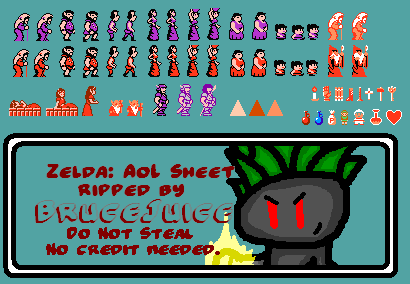
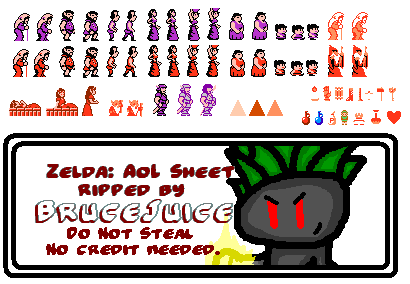
add ending scene 1

diff --git a/script/northpalace.py b/script/northpalace.py
@@ -1,5 +1,7 @@
 import game_objects as g
 from game.game_elevator import GameElevator
+from scene.scene_manager import SceneManager
+from sprite.sprite_base import SpriteBase
 
 
 def map_01():
@@ -10,4 +12,49 @@ def transfer_01():
     if g.GAME_PLAYER.right >= g.GAME_MAP.width():
         map_name = 'parapalace'
         g.GAME_MAP.transfer(map_name, 1, 1, g.GAME_PLAYER.y / 16 - 1)
-        GameElevator.position_y = 12;
+        GameElevator.position_y = 12
+
+
+triforce_count = 900
+sprite_triforce1 = SpriteBase()
+sprite_triforce2 = SpriteBase()
+sprite_triforce3 = SpriteBase()
+def map_02():
+    global triforce_count
+    global sprite_triforce1, sprite_triforce2, sprite_triforce3
+    if g.GAME_PLAYER.can_input:
+        g.GAME_PLAYER.can_input = False
+        g.GAME_PLAYER.state = "pick"
+        g.GAME_PLAYER.direction = -1
+        g.GAME_PLAYER.x += 1
+        create_triforce(sprite_triforce1)
+        create_triforce(sprite_triforce2)
+        create_triforce(sprite_triforce3)
+        SceneManager.scene('hide_screens')
+    else:
+        triforce_count -= 1
+        if triforce_count % 90 == 0:
+            sprite_triforce1.set_frame(230, 100, 16, 16)
+            sprite_triforce2.set_frame(230, 100, 16, 16)
+            sprite_triforce3.set_frame(230, 100, 16, 16)
+        if triforce_count % 90 == 30:
+            sprite_triforce1.set_frame(230 + 16 + 3, 100, 16, 16)
+            sprite_triforce2.set_frame(230 + 16 + 3, 100, 16, 16)
+            sprite_triforce3.set_frame(230 + 16 + 3, 100, 16, 16)
+        if triforce_count % 90 == 60:
+            sprite_triforce1.set_frame(230 + 32 + 5, 100, 16, 16)
+            sprite_triforce2.set_frame(230 + 32 + 5, 100, 16, 16)
+            sprite_triforce3.set_frame(230 + 32 + 5, 100, 16, 16)
+        if triforce_count % 5 == 0 and triforce_count > 570:
+            sprite_triforce1.x -= 1
+            sprite_triforce2.x += 1
+            sprite_triforce3.y -= 1
+
+
+def create_triforce(triforce):
+    triforce.load_spritesheet('characters/characters.png')
+    triforce.set_frame(230, 100, 16, 16)
+    triforce.x = 256 / 2 - 8
+    triforce.y = 240 / 2 - 8 + 48
+    SceneManager.scene('add', triforce)
+

diff --git a/game/game_player.py b/game/game_player.py
@@ -147,6 +147,7 @@ class GameLink(GamePlayer):
         self.is_dead = False
         self.frame = 0  # ! see game character frame count
         self.shield_count = 0
+        self.can_input = True
 
     def clear(self):
         self.hp = 16 * 4
@@ -248,7 +249,8 @@ class GameLink(GamePlayer):
             'jump': self.state_jumping,
             'fall': self.state_falling,
             'crch': self.state_crouching,
-            'hurt': self.state_hurting
+            'hurt': self.state_hurting,
+            'pick': self.state_picking
         }
         switcher.get(self.state)()
         self.clamp_speed()
@@ -303,7 +305,13 @@ class GameLink(GamePlayer):
         self.jump_by_input()
         self.stab_by_input()
 
+    def state_picking(self):
+        pass
+
     def move_by_input(self):
+        if not self.can_input:
+            self.back_to_idle()
+            return
         d = self.get_input_direction()
         if d != 0:
             if self.is_on_ground:
@@ -314,6 +322,8 @@ class GameLink(GamePlayer):
             self.back_to_idle()
 
     def stab_by_input(self):
+        if not self.can_input:
+            return
         if not self.is_stabbing():
             if Input.is_key_triggered('x'):
                 self.stab()
@@ -323,6 +333,8 @@ class GameLink(GamePlayer):
         return Input.dirX()
 
     def jump_by_input(self):
+        if not self.can_input:
+            return
         if self.is_jump_triggered():
             self.crouch()
             self.ground_type = ''
@@ -332,6 +344,9 @@ class GameLink(GamePlayer):
             self.state = 'jump'
 
     def crouch_by_input(self):
+        if not self.can_input:
+            self.back_to_idle()
+            return
         if Input.is_key_pressed('down'):
             self.back_to_idle()
             self.crouch()

diff --git a/game/game_map.py b/game/game_map.py
@@ -39,8 +39,8 @@ class GameMap:
     def starting_position(self):
         self.map_name = 'northpalace'
         self.map_id = 1
-        self.x = 13
-        self.y = 12
+        self.x = 23.5
+        self.y = 9
         self.load_script(self.map_name)
 
     def setup(self, tiled):
@@ -61,7 +61,7 @@ class GameMap:
     def setup_objects(self):
         self.enemies = []
         self.objects = []
-        objects = self.layers[-1]['objects']
+        objects = self.layers[-1].get('objects', [])
         for data in objects:
             x, y = data['x'], data['y']
             object_id = data['id']
@@ -273,7 +273,10 @@ class GameMap:
         self._script = import_module('script.' + script)
 
     def interpret_script(self, method='map_01'):
-        getattr(self._script, method)()
+        try:
+            getattr(self._script, method)()
+        except:
+            pass
 
     def get_hit_collisions(self, box):
         self._collide = []

diff --git a/scene/scene_game.py b/scene/scene_game.py
@@ -12,6 +12,7 @@ from screen.screen_status import ScreenStatus
 from screen.screen_boss import ScreenBoss
 from sprite.sprite_player import SpritePlayer
 from sprite.spriteset_map import SpritesetMap
+from sprite.sprite_base import SpriteBase
 
 
 class SceneGame(SceneBase):
@@ -117,6 +118,9 @@ class SceneGame(SceneBase):
             self._bossScreen.setup(g.GAME_MAP.boss())
         if self._bossScreen.is_open():
             self._bossScreen.refresh()
+
+    def hide_screens(self):
+        self._statusScreen.hide()
 
     def update_scene(self):
         if g.GAME_PLAYER.is_dead:

diff --git a/script/parapalace.py b/script/parapalace.py
@@ -2,7 +2,6 @@ import game_objects as g
 from game.game_elevator import GameElevator
 from core.pyxi import Audio
 from scene.scene_manager import SceneManager
-from scene.scene_end import SceneEnd
 
 
 def map_01():
@@ -243,5 +242,5 @@ def map_14():
     if g.GAME_PLAYER.right >= g.GAME_MAP.width():
         switch14 = False
         SceneManager.scene('start_fade_out')
-        SceneManager.goto(SceneEnd)
+        g.GAME_MAP.transfer('northpalace', 2, 7.5, 12)
 

diff --git a/sprite/sprite_player.py b/sprite/sprite_player.py
@@ -50,6 +50,9 @@ class SpritePlayer(SpriteCharacter):
         elif g.GAME_PLAYER.state == 'hurt':
             p = 6 if d == 1 else 1
             self.set_frame(39 * p + 1 * p, 40 * 9, 39, 40)
+        elif g.GAME_PLAYER.state == 'pick':
+            p = 3 if d == 1 else 4
+            self.set_frame(39 * p + 1 * p, 40 * 2, 39, 40)
         else:
             p = 4 if d == 1 else 3
             y = 0

diff --git a/scene/scene_manager.py b/scene/scene_manager.py
@@ -85,9 +85,10 @@ class SceneManager:
     @classmethod
     def scene(cls, message, *args):
         try:
-            eval('cls._scene.' + message + str(args))
+            params = '()' if len(args) == 0 else '(args[0])'
+            eval('cls._scene.' + message + params)
         except (SyntaxError, AttributeError):
-           pass
+            pass
 
     @staticmethod
     def terminate():

diff --git a/screen/screen_credits.py b/screen/screen_credits.py
@@ -19,6 +19,7 @@ class ScreenCredits(ScreenBase):
         self.draw_text('Mister Mike', 0, 40+16, 256 - 32, 8)
         self.draw_text('GaryCXJK', 0, 40 + 32, 256 - 32, 8)
         self.draw_text('LoZ741', 0, 40 + 48, 256 - 32, 8)
+        self.draw_text('BruceJuice', 0, 40 + 48 + 16, 256 - 32, 8)
         self.hide_frame()
 
     def update(self):
